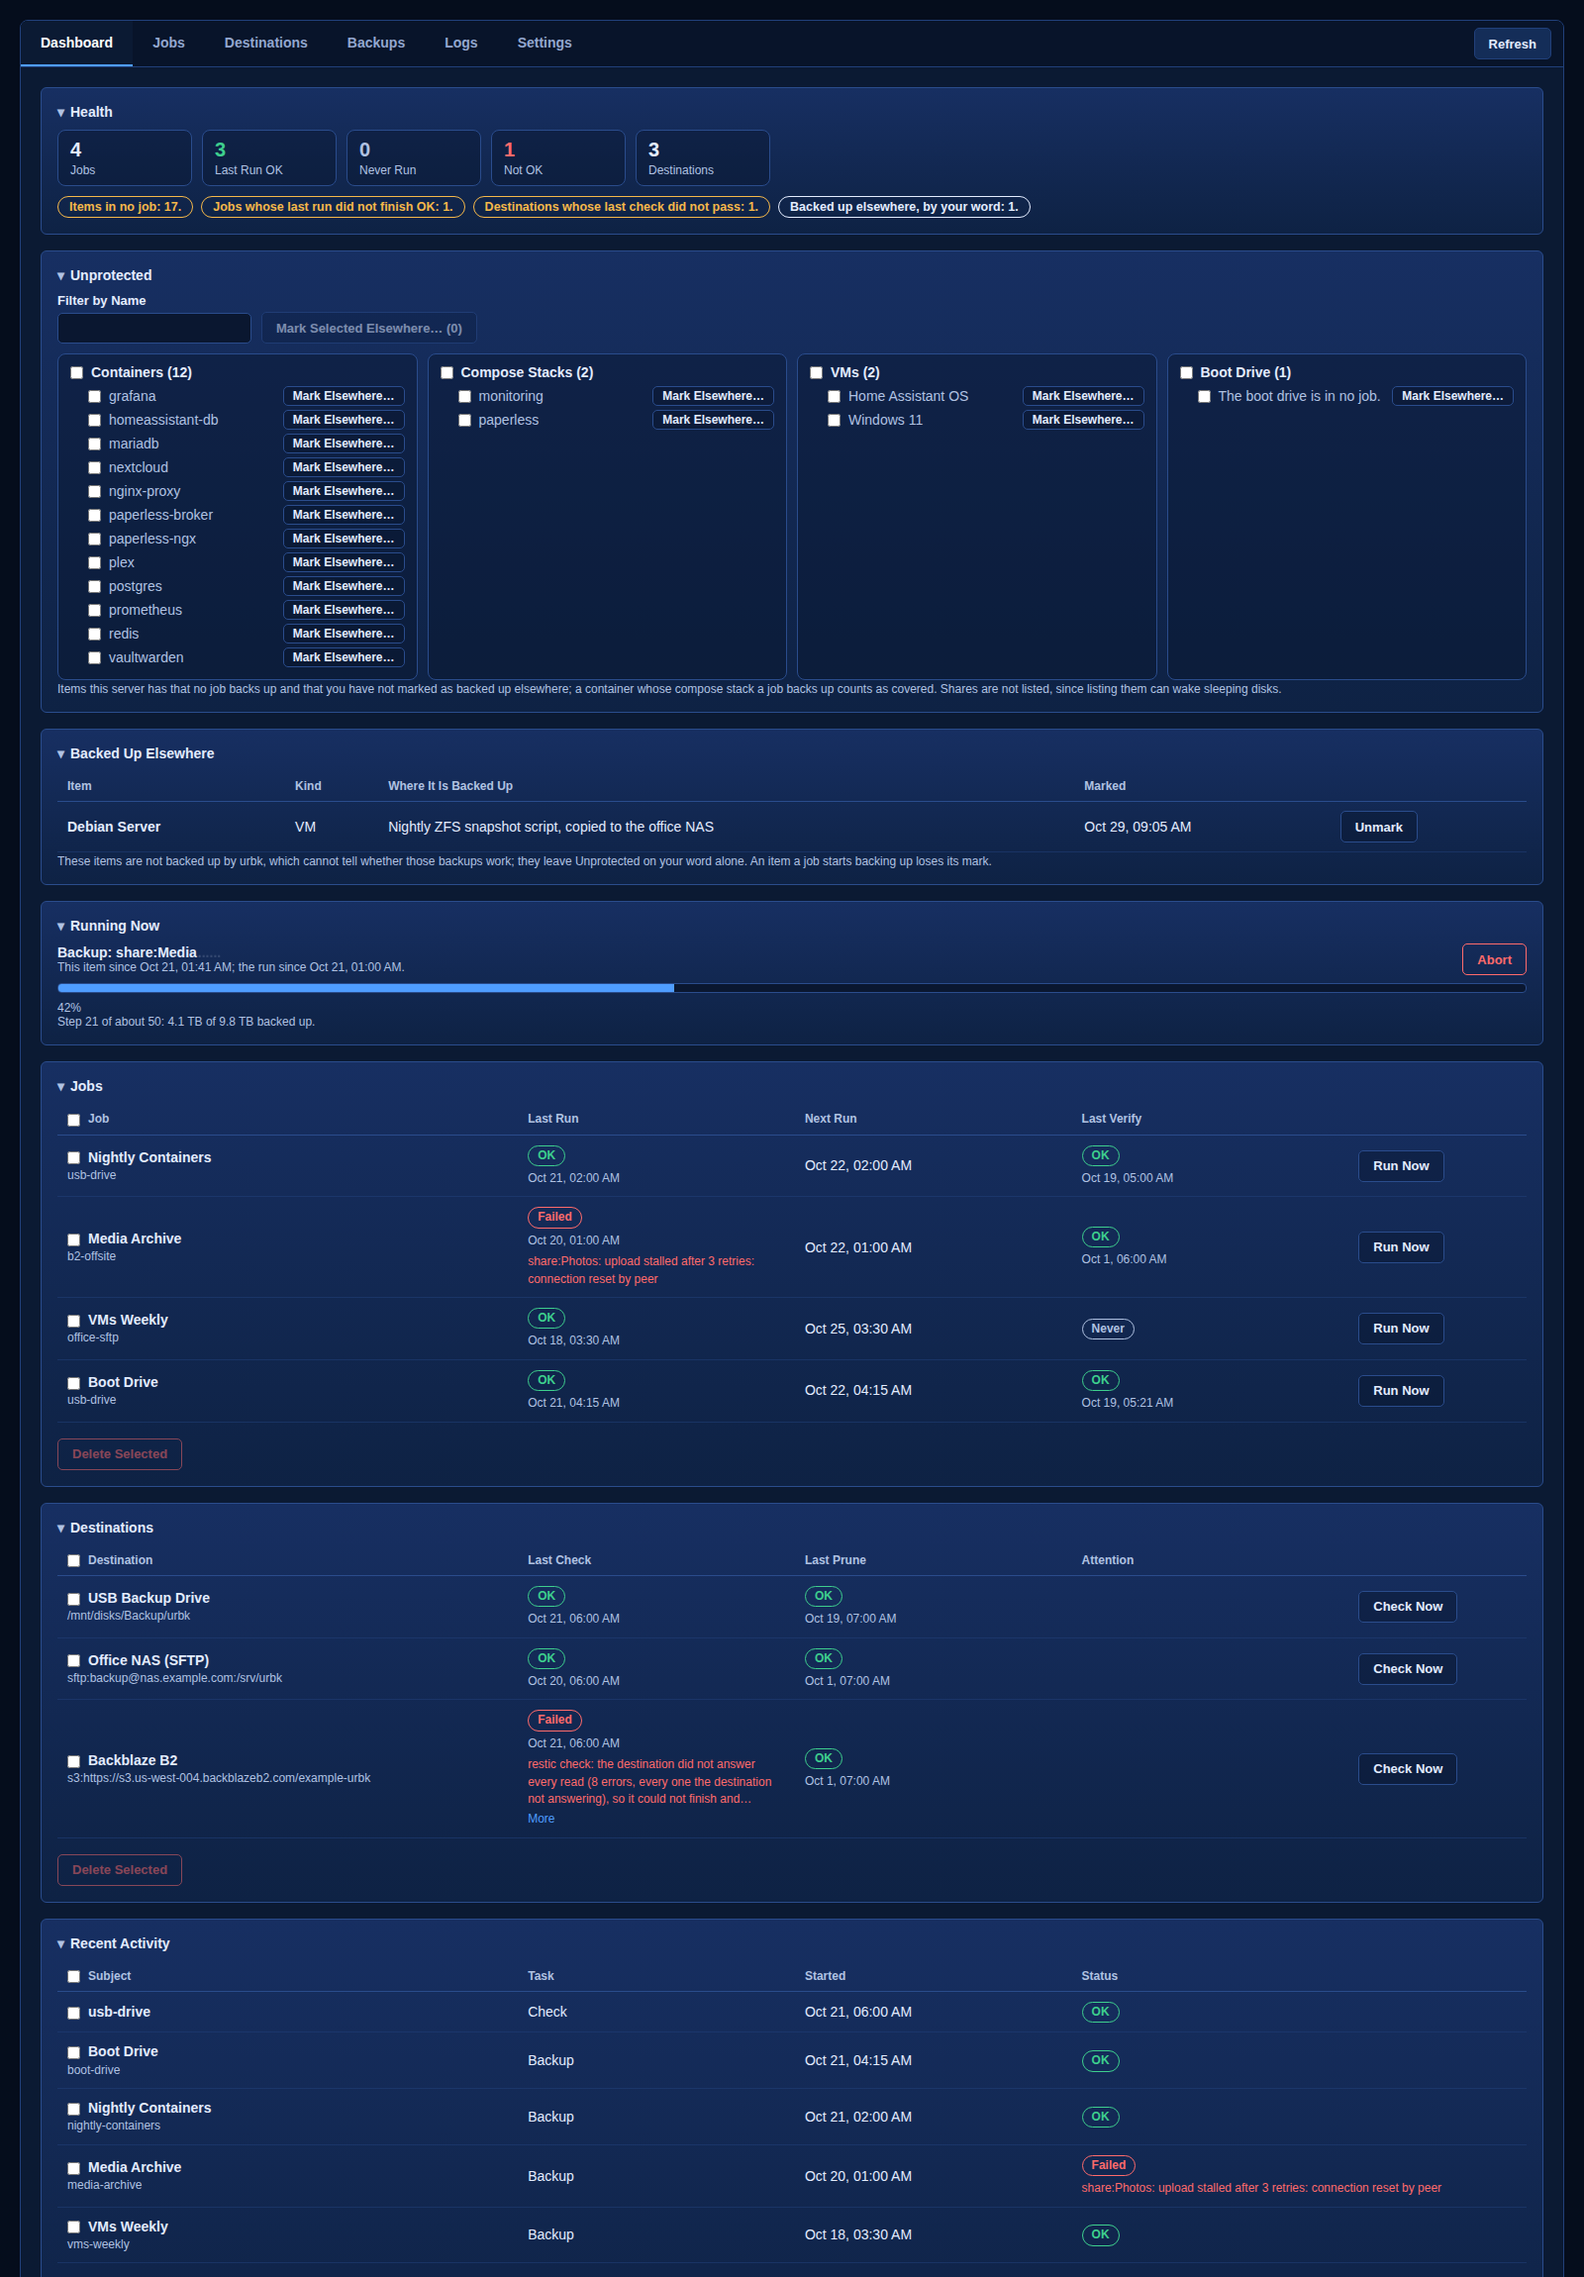
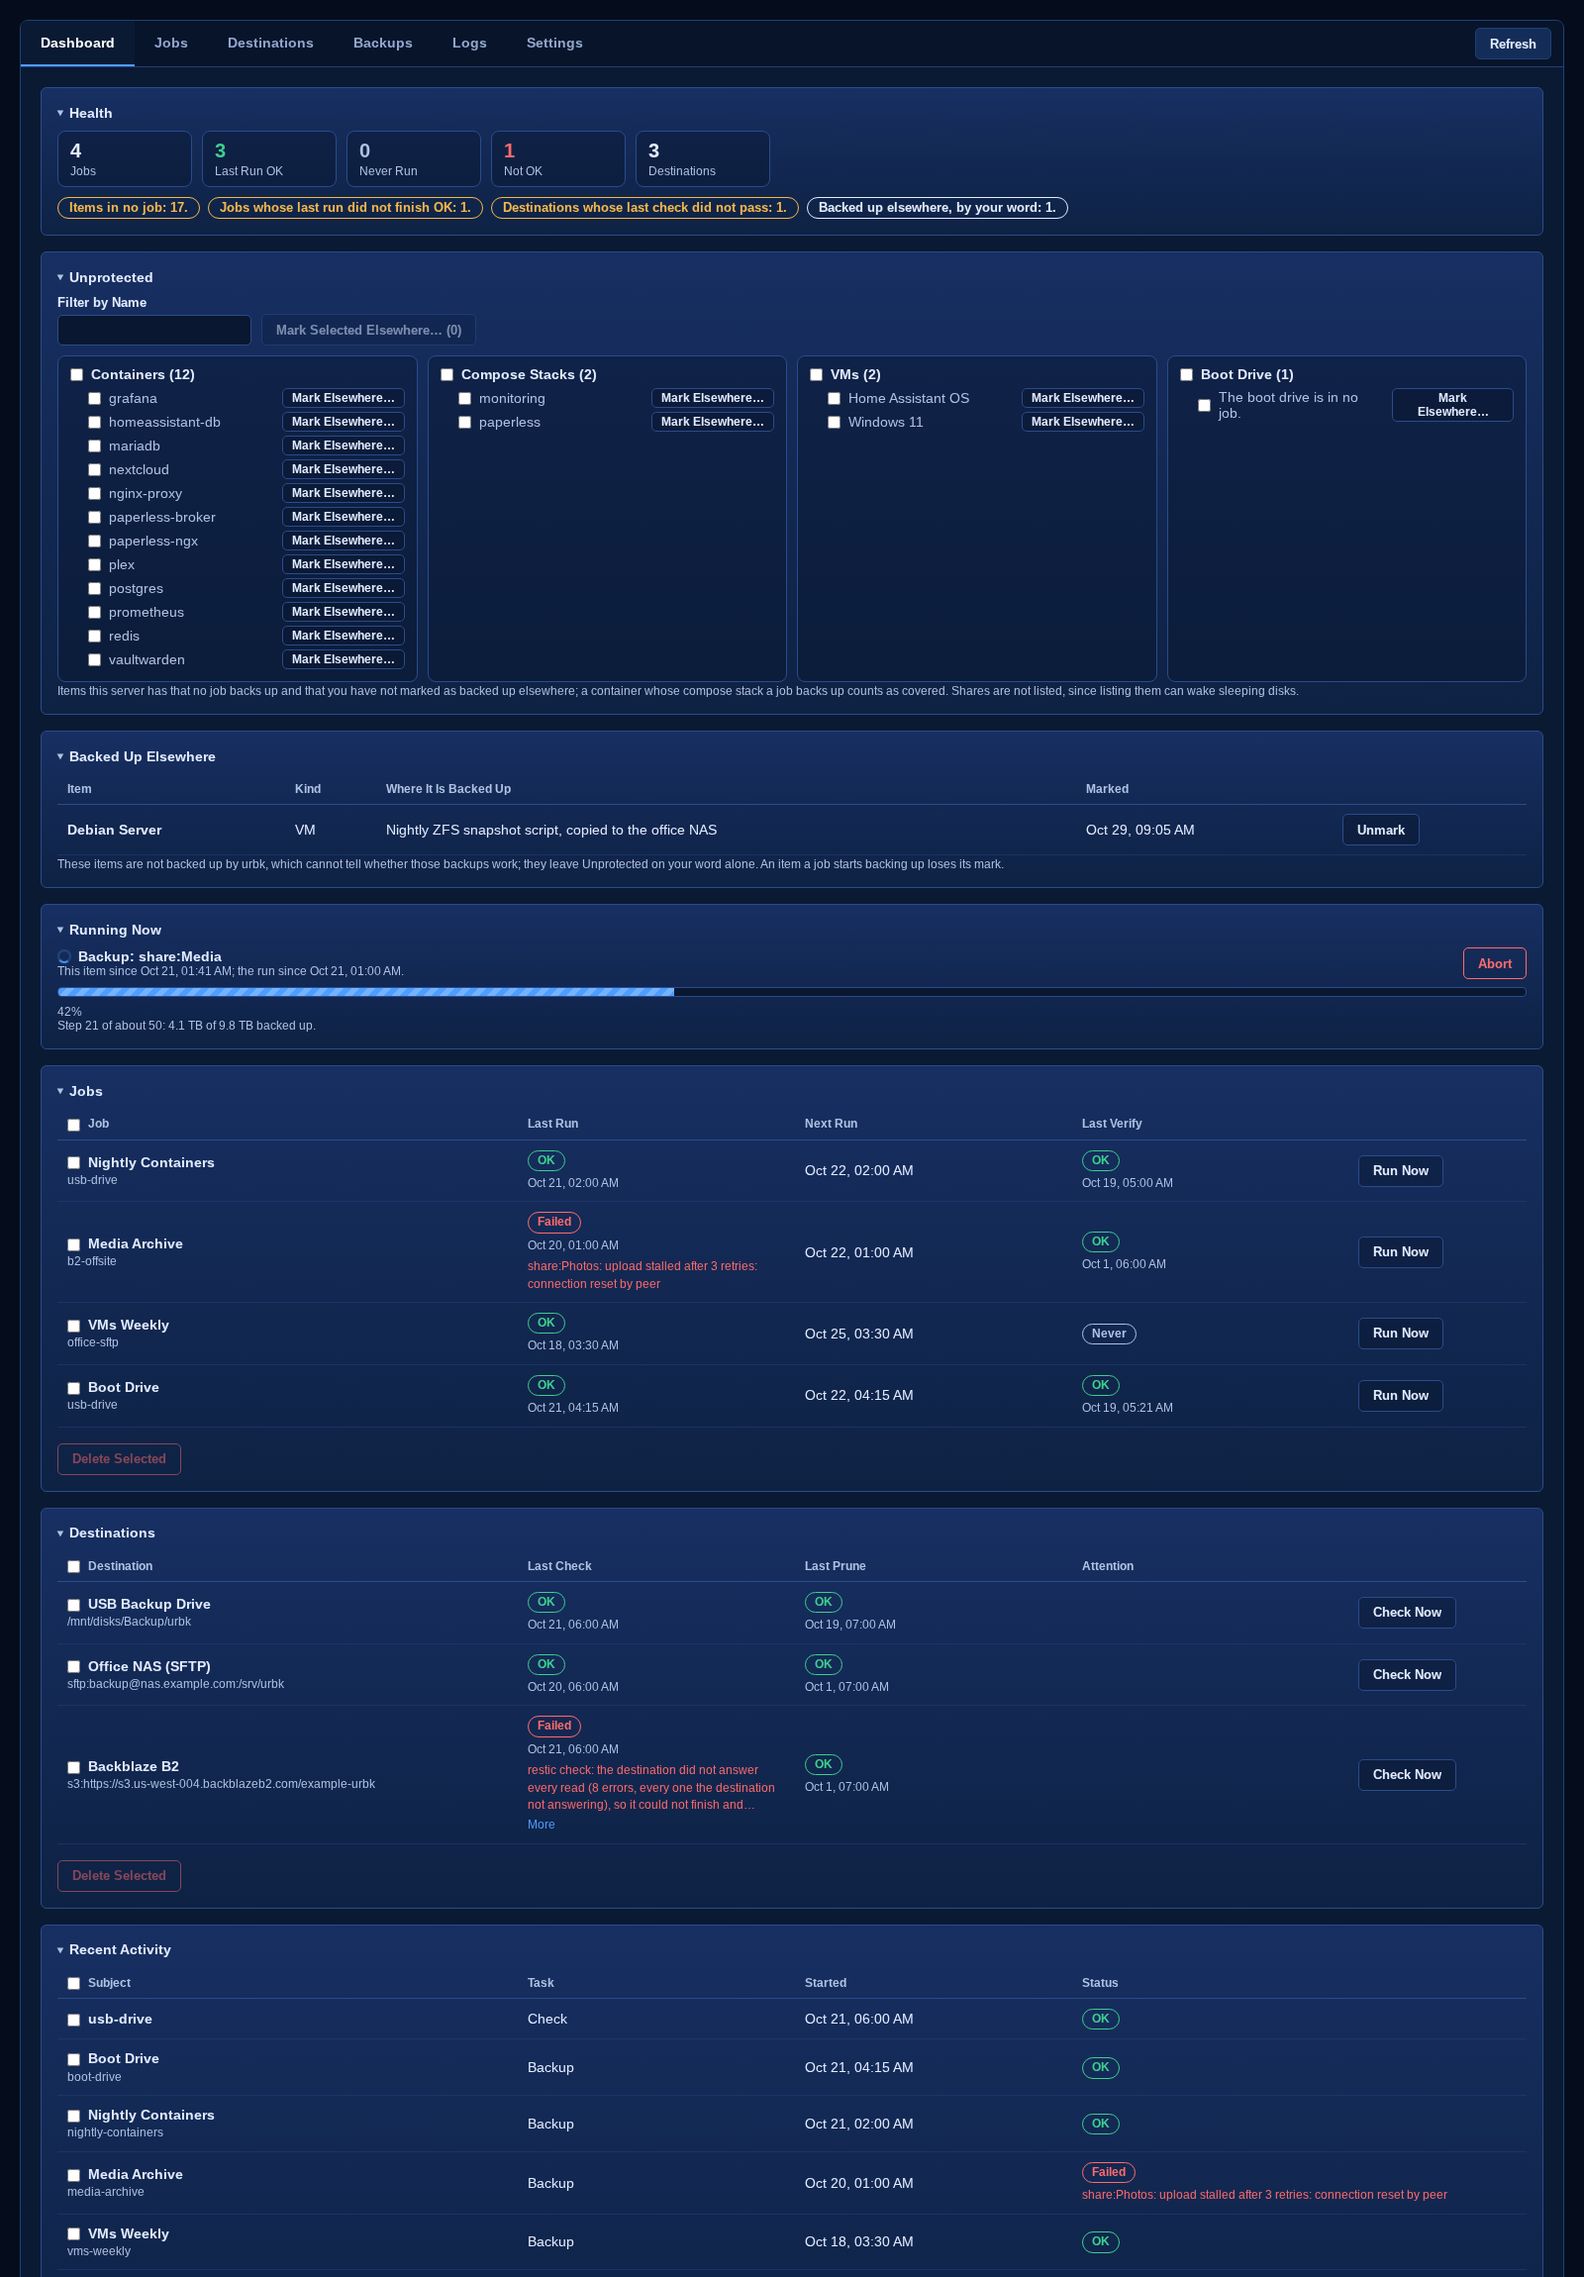
docs: Running Now's spinner and moving bar, a dead run's lock cleared at once, a busy repository waited for, and nothing left running

diff --git a/README.md b/README.md
@@ -113,7 +113,12 @@ flowchart LR
   its record says so.
 - **Crash-safe.** Every step that changes the server is journaled. If a run
   dies part way, the next urbk command replays the journal: it starts again
-  what it stopped, and puts back or finishes a restore that was cut short.
+  what it stopped, puts back or finishes a restore that was cut short, and
+  removes a boot test's isolated copy of a VM, never a VM of yours.
+- **Nothing left running.** Each run's processes are kept together, restic
+  and rclone included. A run that leaves something running as it ends says
+  what, and what a run that died had started is ended before anything else
+  runs.
 - **Restores stage first.** A restore writes beside the live copy and swaps it
   in, keeping the previous copy; if the swap fails, it rolls back. A share
   restore writes into a new folder of its own, or over the live share only
@@ -211,11 +216,15 @@ flowchart LR
   credentials are scrubbed from urbk's errors, notifications and records.
 - **A busy repository says so.** When another task holds a repository, the
   Backups tab says which task and since when, and lists its restore points
-  by itself once that task ends, instead of showing restic's lock error.
+  by itself once that task ends, instead of showing restic's lock error. A
+  backup, verify, check, prune or restore that finds its repository held by a
+  task still running waits up to ten minutes for it rather than failing at
+  once.
 - **A lock a crashed run left clears itself.** When a restic on this server
   stopped without removing its lock (killed, crashed, or the server lost
-  power), the next backup, prune or delete removes that lock and goes on,
-  instead of failing until someone runs `restic unlock` by hand.
+  power), the next backup, prune or delete removes that lock at once and goes
+  on, without waiting for it and without failing until someone runs
+  `restic unlock` by hand.
 - **A lock another server left, removed when you say so.** A destination's
   Locks section lists each lock on its repository: which host took it, its
   process, when and its kind, and whether it is this server's. Remove Locks
@@ -224,8 +233,11 @@ flowchart LR
   urbk cannot tell whose a lock is, or when the locks changed since you
   looked.
 - **You can tell it is working.** Every line that says urbk is still at it
-  (reading from the server, checking, deleting, the task Running Now) ends in
-  a moving trail of dots, so a slow cloud listing never looks stuck.
+  (reading from the server, checking, deleting, the task Running Now) starts
+  with a turning spinner. Running Now's bar moves too: stripes run along it
+  once restic reports progress, and before that, while restic scans, a block
+  sweeps across it rather than a bar stuck at 0%. A slow cloud listing never
+  looks stuck.
 - **Tools you can check.** Settings lists the restic and rclone urbk runs,
   each with its SHA-256 against the version it pins, and says Not Verified
   with the reason if either is not the pinned build.
@@ -243,7 +255,7 @@ The screenshots show invented jobs, shares and servers, not a real one.
 | Dashboard | Logs |
 |:---:|:---:|
 | ![Dashboard](docs/images/gui-dashboard.png) | ![Logs](docs/images/gui-logs.png) |
-| Health and what needs you, items no job backs up and items backed up elsewhere, how long each run took, and a long error shown in three lines with More | Every run, verify, check, prune and restore, with each item's result |
+| Health and what needs you, items no job backs up and items backed up elsewhere, the task running now with its spinner and moving bar, how long each run took, and a long error shown in three lines with More | Every run, verify, check, prune and restore, with each item's result |
 
 | Jobs: Server Items | Jobs: Shares and Folders |
 |:---:|:---:|
